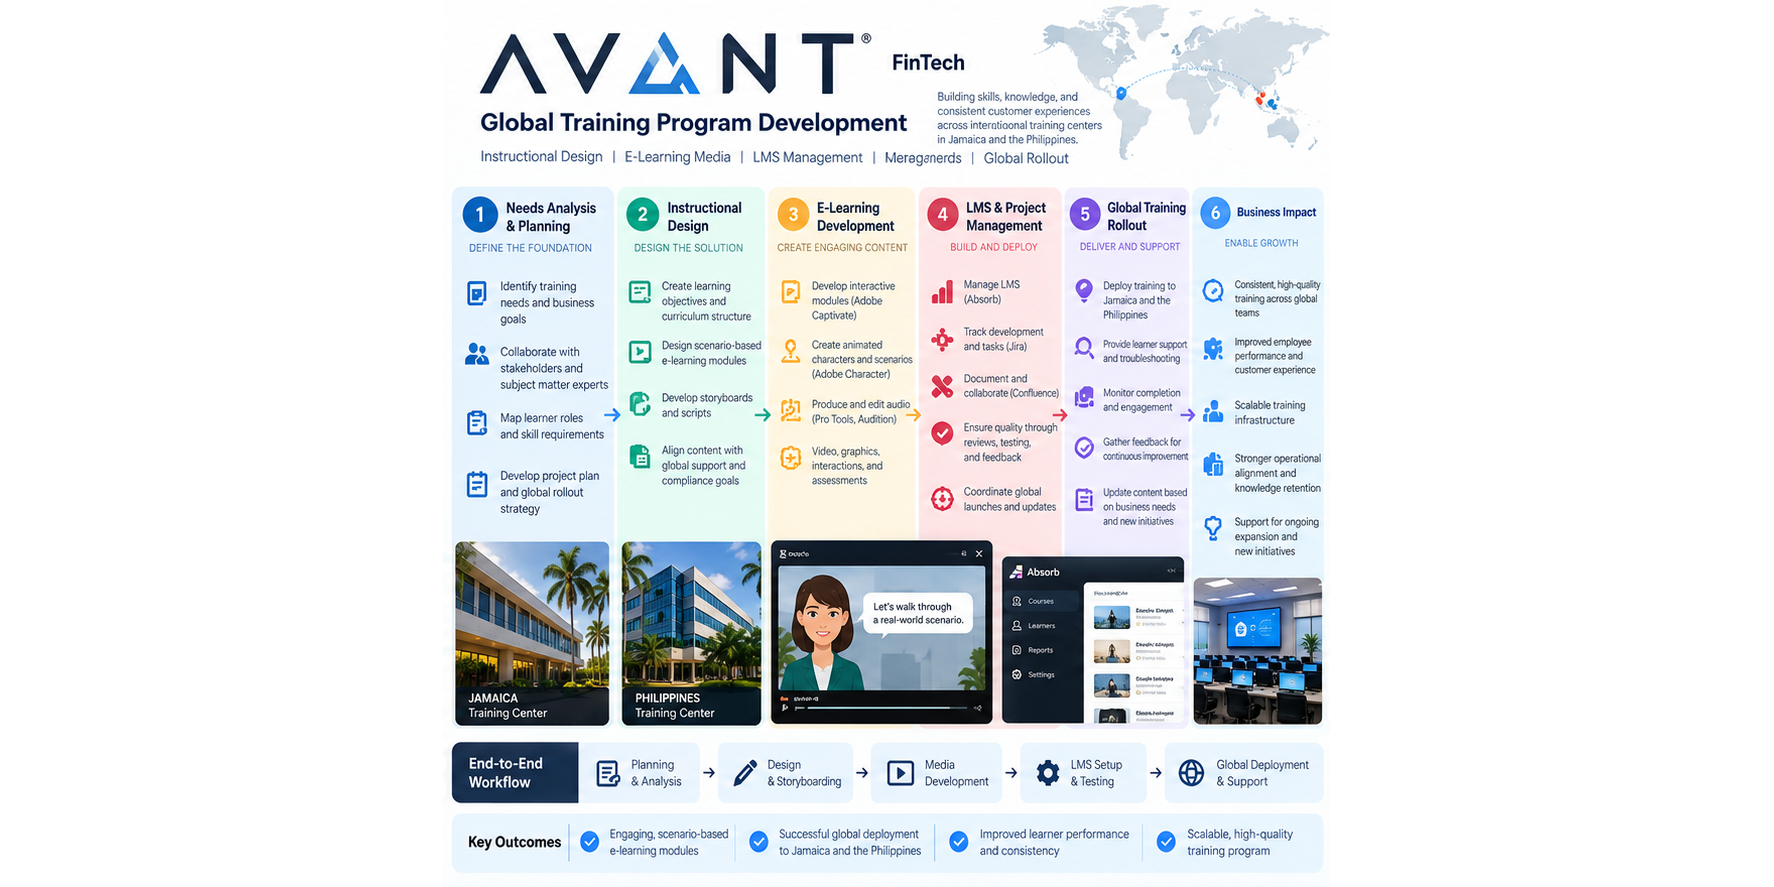
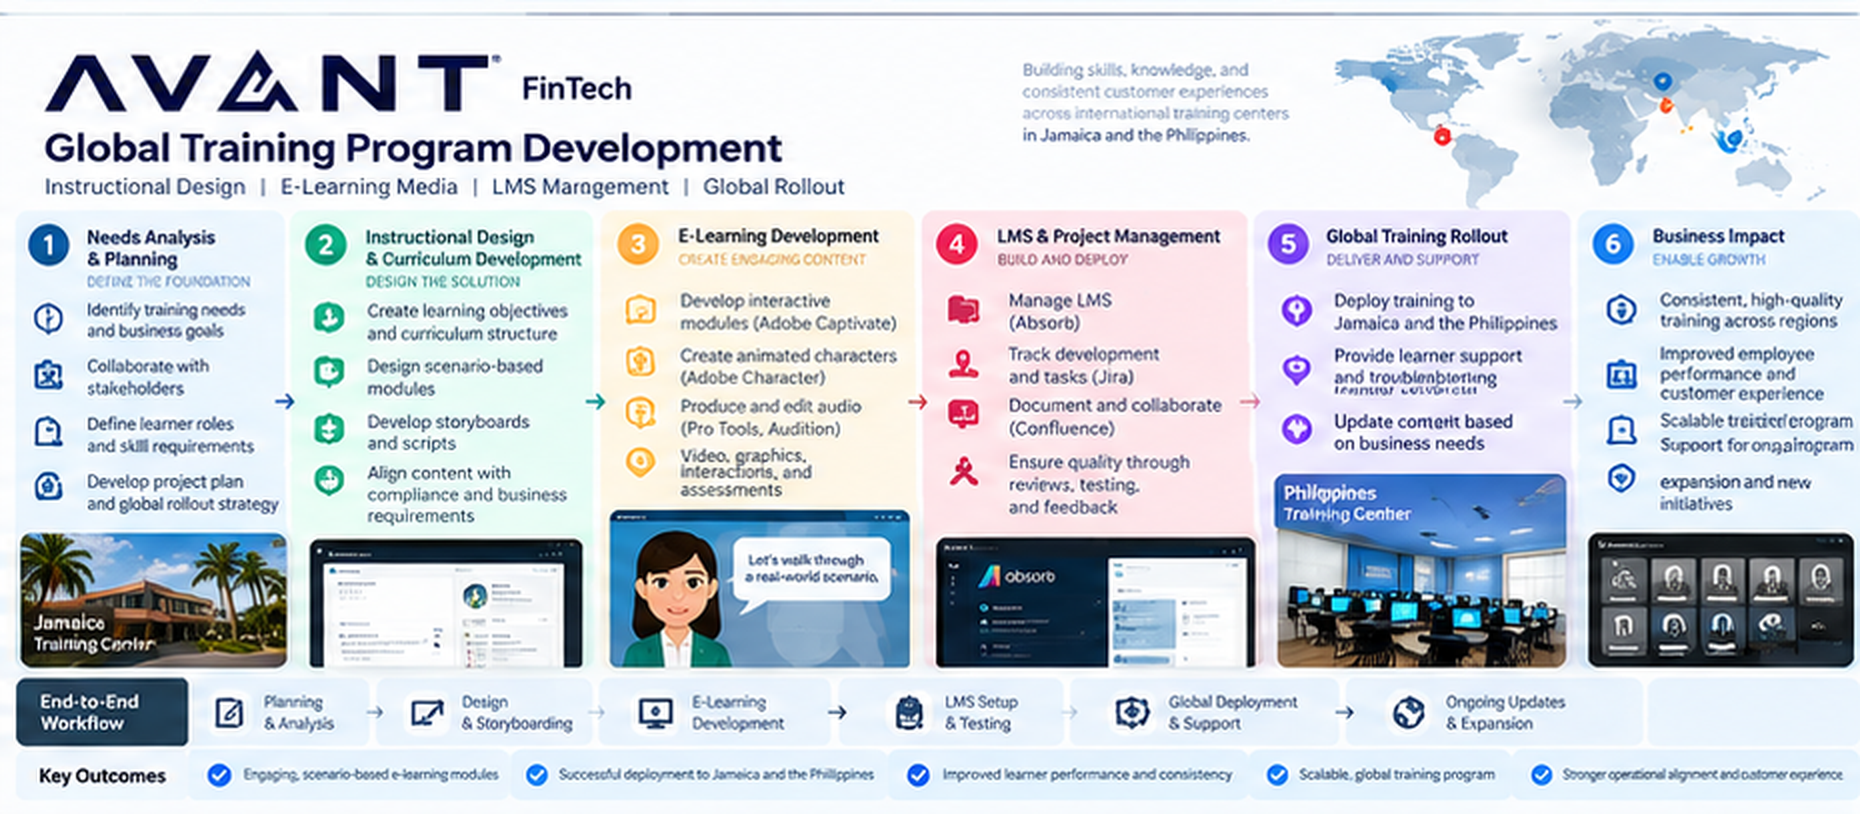
Add files via upload

diff --git a/avant/style.css b/avant/style.css
@@ -294,3 +294,7 @@ background:#fff;
 /* Match Fender hero infographic frame (2:1), preserving full artwork. */
 .case-diagram{aspect-ratio:2/1;border:0;border-radius:14px;box-shadow:0 8px 28px rgba(0,0,0,.12)}
 .case-diagram img{width:100%;height:100%;object-fit:contain}
+
+/* Landscape artwork fills preview, without square-source side margins. */
+.case-diagram{aspect-ratio:2.29/1!important;overflow:hidden!important;background:#fff!important}
+.case-diagram img{display:block;width:100%!important;height:100%!important;object-fit:cover!important}

diff --git a/studyledgeros/style.css b/studyledgeros/style.css
@@ -265,3 +265,7 @@ footer{
 /* Match Fender hero infographic frame (2:1), preserving full artwork. */
 .case-diagram{aspect-ratio:2/1;border:0;border-radius:14px;box-shadow:0 8px 28px rgba(0,0,0,.12)}
 .case-diagram img{width:100%;height:100%;object-fit:contain}
+
+/* Landscape artwork fills preview, without square-source side margins. */
+.case-diagram{aspect-ratio:2.29/1!important;overflow:hidden!important;background:#fff!important}
+.case-diagram img{display:block;width:100%!important;height:100%!important;object-fit:cover!important}
